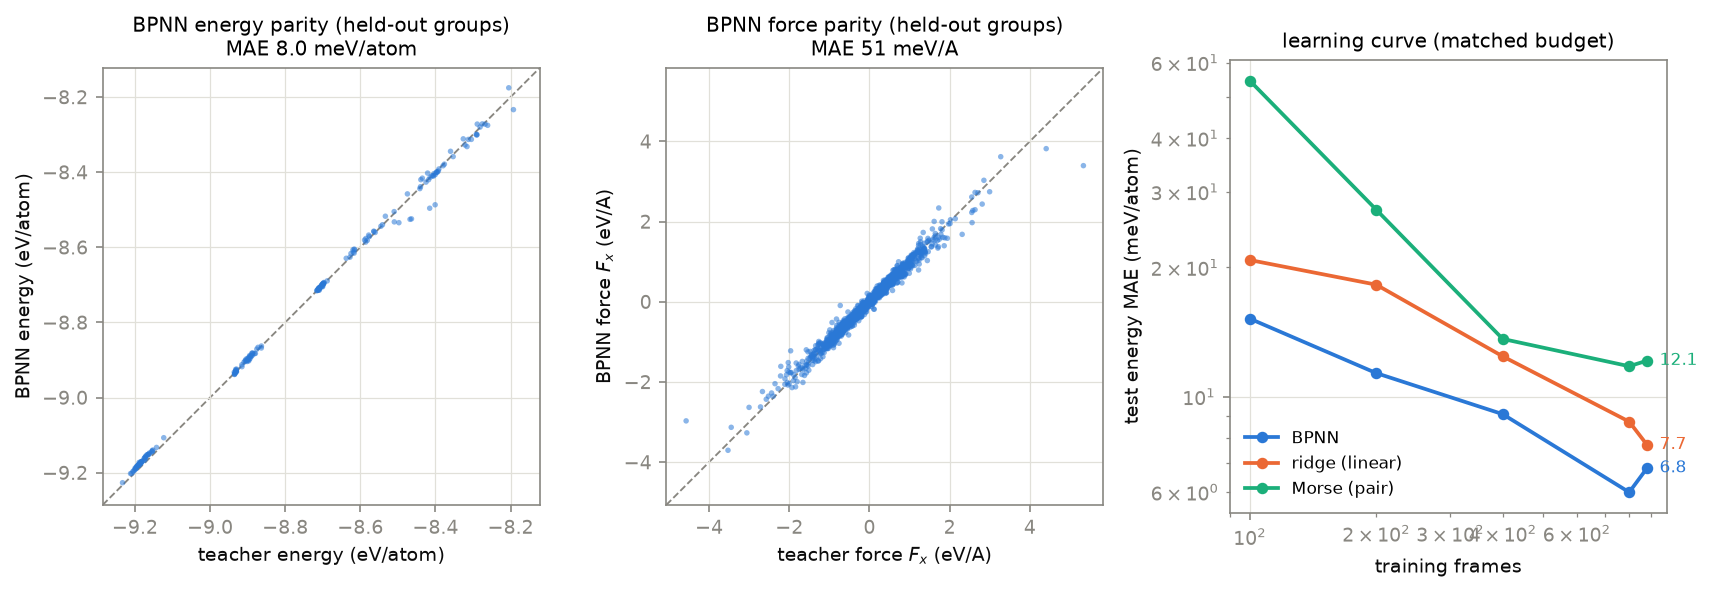
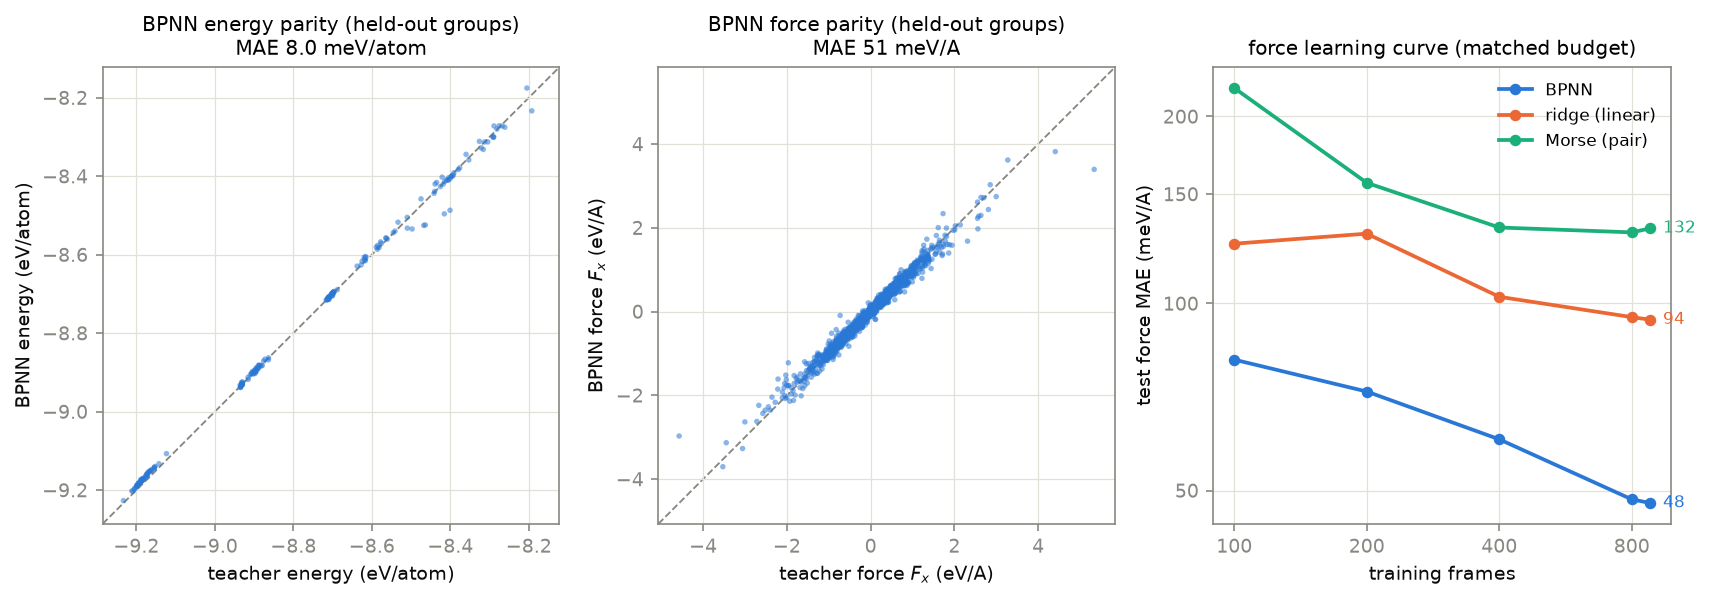
Put the force learning curve on the hero and clean up figure axes
The repo's stated headline is the force advantage, but the hero's third
panel showed the energy learning curve where the edge is smallest. It now
shows test force MAE versus training frames, where the ridge plateau at its
representation limit is visible. Also: explicit axis ticks replace the
colliding automatic log-scale labels, and the NVE traces use shades of the
BPNN blue instead of borrowing the other models' colors.

diff --git a/scripts/make_figures.py b/scripts/make_figures.py
@@ -1,6 +1,6 @@
 """Render all committed figures from results/*.json.
 
-Colors follow one fixed assignment everywhere: BPNN blue, linear ridge orange,
+Colors keep one fixed meaning everywhere: BPNN blue, linear ridge orange,
 Morse aqua, teacher dark gray. Anchors appear as reference markers.
 
 Usage:
@@ -54,6 +54,18 @@ def _load(name: str) -> dict:
     return json.loads((RESULTS / f"{name}.json").read_text())
 
 
+def _size_ticks(ax, sizes: list) -> None:
+    """Explicit ticks at the actual training sizes; the automatic log-axis
+    minor labels collide at this range (3x10^2 overlaps 4x10^2). Ticks closer
+    than 15 percent to their predecessor are dropped (882 sits on top of 800)."""
+    ticks = [sizes[0]]
+    for s in sizes[1:]:
+        if s > 1.15 * ticks[-1]:
+            ticks.append(s)
+    ax.set_xticks(ticks, [str(t) for t in ticks])
+    ax.minorticks_off()
+
+
 def _parity_panel(ax, ev, color, label, kind: str) -> None:
     if kind == "energy":
         x = np.array(ev["e_true_per_atom"])
@@ -90,14 +102,17 @@ def fig_hero() -> None:
     axes[1].set_xlabel("teacher force $F_x$ (eV/A)")
     axes[1].set_ylabel("BPNN force $F_x$ (eV/A)")
 
+    # the third panel carries the headline: the force advantage holds at every
+    # training-set size while the linear model plateaus at its representation
+    # limit, so the force learning curve is the one that belongs on the hero
     ax = axes[2]
     for name in ("bpnn", "linear", "morse"):
         pts = lc["models"][name]
         sizes = [p["size"] for p in pts]
-        maes = [p["e_mae_mev_per_atom"] for p in pts]
+        maes = [p["f_mae_mev_per_a"] for p in pts]
         ax.plot(sizes, maes, "o-", lw=1.8, ms=4.5, color=COLORS[name], label=LABELS[name])
         ax.annotate(
-            f"{maes[-1]:.1f}",
+            f"{maes[-1]:.0f}",
             (sizes[-1], maes[-1]),
             textcoords="offset points",
             xytext=(6, -2),
@@ -106,10 +121,12 @@ def fig_hero() -> None:
         )
     ax.set_xscale("log")
     ax.set_yscale("log")
+    _size_ticks(ax, [p["size"] for p in lc["models"]["bpnn"]])
+    ax.set_yticks([50, 100, 150, 200], ["50", "100", "150", "200"])
     ax.set_xlabel("training frames")
-    ax.set_ylabel("test energy MAE (meV/atom)")
-    ax.set_title("learning curve (matched budget)")
-    ax.legend(loc="lower left", fontsize=8)
+    ax.set_ylabel("test force MAE (meV/A)")
+    ax.set_title("force learning curve (matched budget)")
+    ax.legend(loc="upper right", fontsize=8)
     fig.tight_layout()
     fig.savefig(FIGS / "hero.png", bbox_inches="tight")
     plt.close(fig)
@@ -135,9 +152,9 @@ def fig_parity_grid() -> None:
 def fig_learning_curve() -> None:
     lc = _load("learning_curve")
     fig, axes = plt.subplots(1, 2, figsize=(9.0, 3.8))
-    for ax, key, ylabel in (
-        (axes[0], "e_mae_mev_per_atom", "test energy MAE (meV/atom)"),
-        (axes[1], "f_mae_mev_per_a", "test force MAE (meV/A)"),
+    for ax, key, ylabel, yticks in (
+        (axes[0], "e_mae_mev_per_atom", "test energy MAE (meV/atom)", [6, 10, 20, 40]),
+        (axes[1], "f_mae_mev_per_a", "test force MAE (meV/A)", [50, 100, 150, 200]),
     ):
         for name in ("bpnn", "linear", "morse"):
             pts = lc["models"][name]
@@ -152,6 +169,8 @@ def fig_learning_curve() -> None:
             )
         ax.set_xscale("log")
         ax.set_yscale("log")
+        _size_ticks(ax, [p["size"] for p in lc["models"]["bpnn"]])
+        ax.set_yticks(yticks, [str(t) for t in yticks])
         ax.set_xlabel("training frames")
         ax.set_ylabel(ylabel)
     axes[0].legend(fontsize=8)
@@ -283,7 +302,9 @@ def fig_eos() -> None:
 def fig_nve() -> None:
     nve = _load("nve")
     fig, ax = plt.subplots(figsize=(7.2, 3.8))
-    shades = [C_BPNN, C_LINEAR, C_MORSE]
+    # all three runs are the BPNN, so use shades of the BPNN blue rather than
+    # the other models' colors
+    shades = ["#123f78", C_BPNN, "#7aa7e0"]
     for run, color in zip(nve["runs"], shades):
         t = np.array(run["times_ps"])
         e = (np.array(run["e_tot"]) - run["e_tot"][0]) * 1000.0
